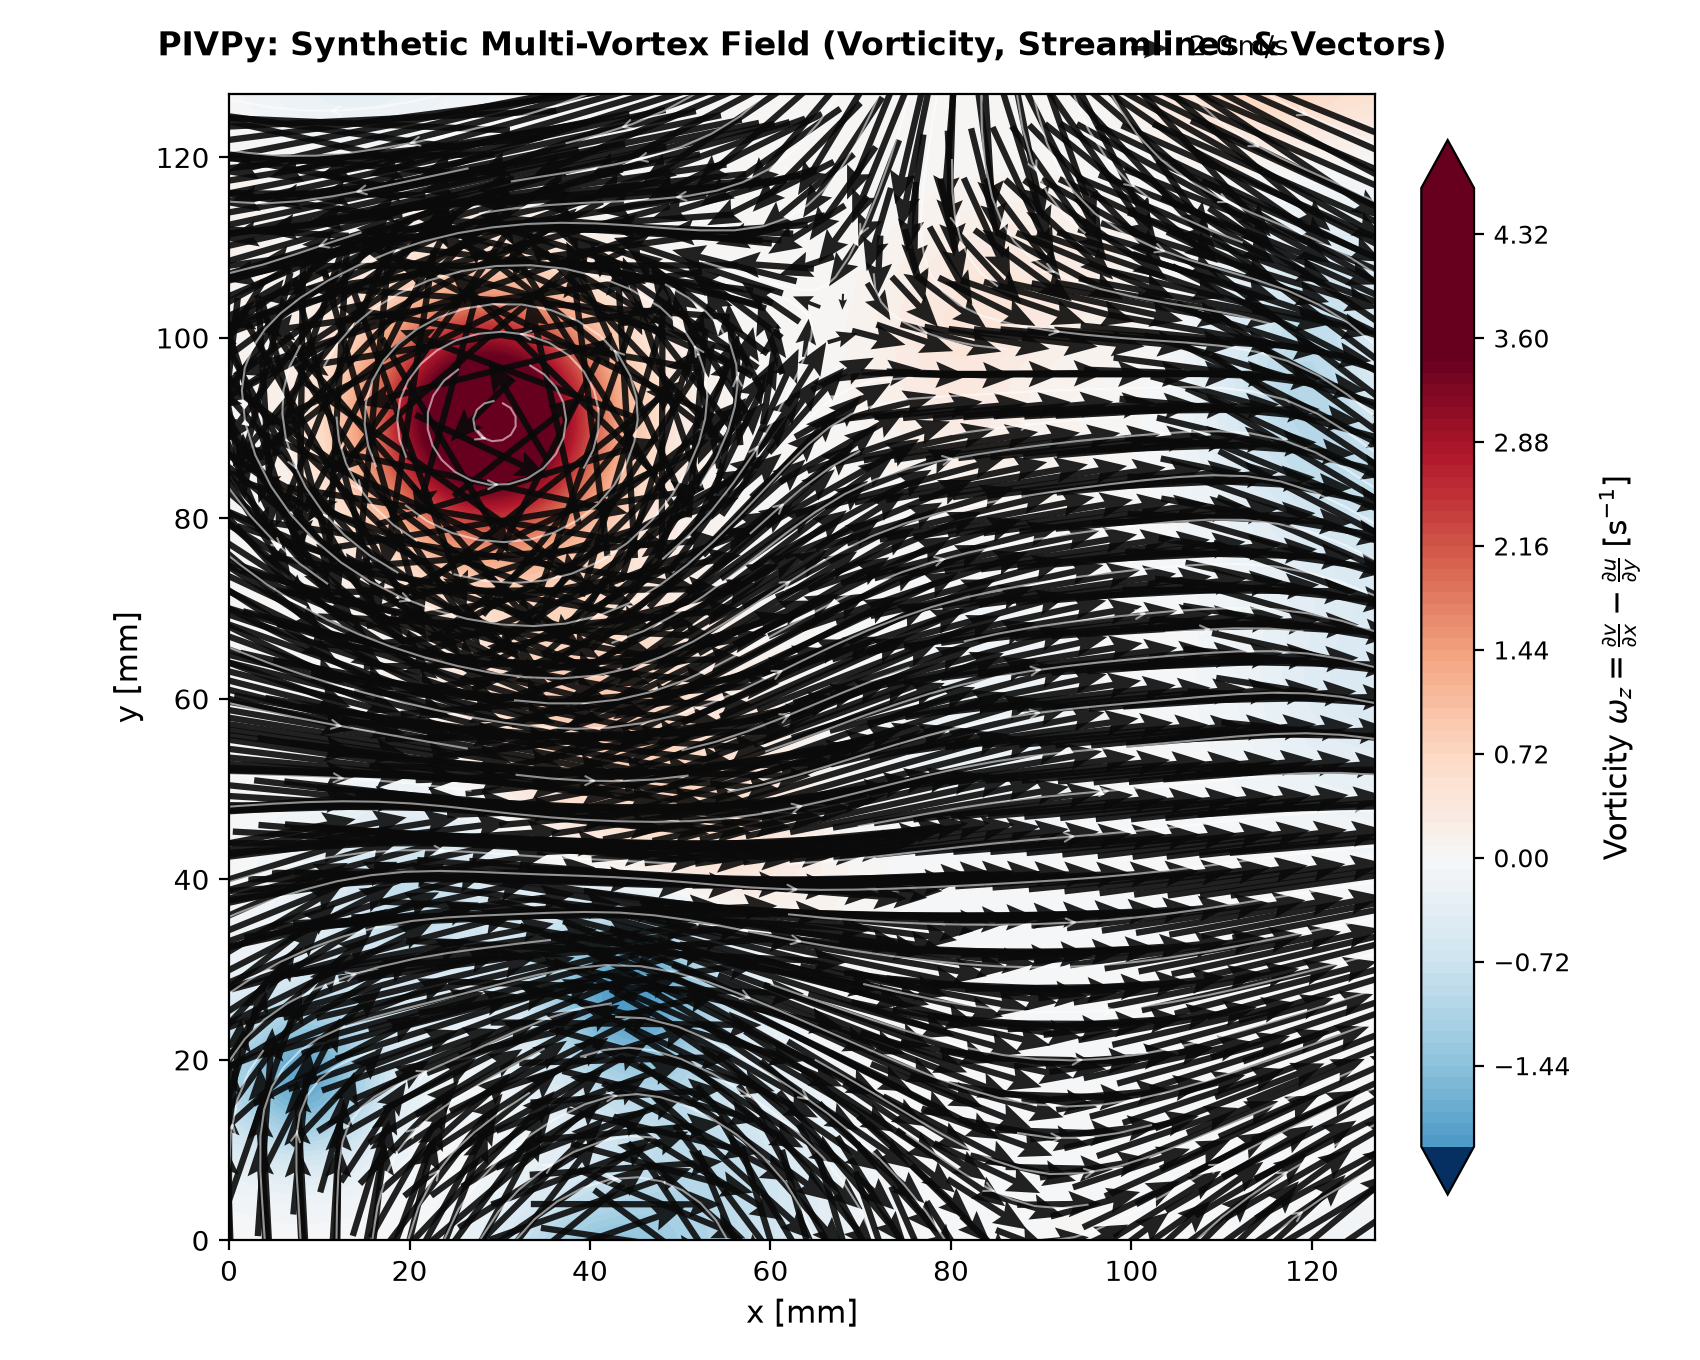
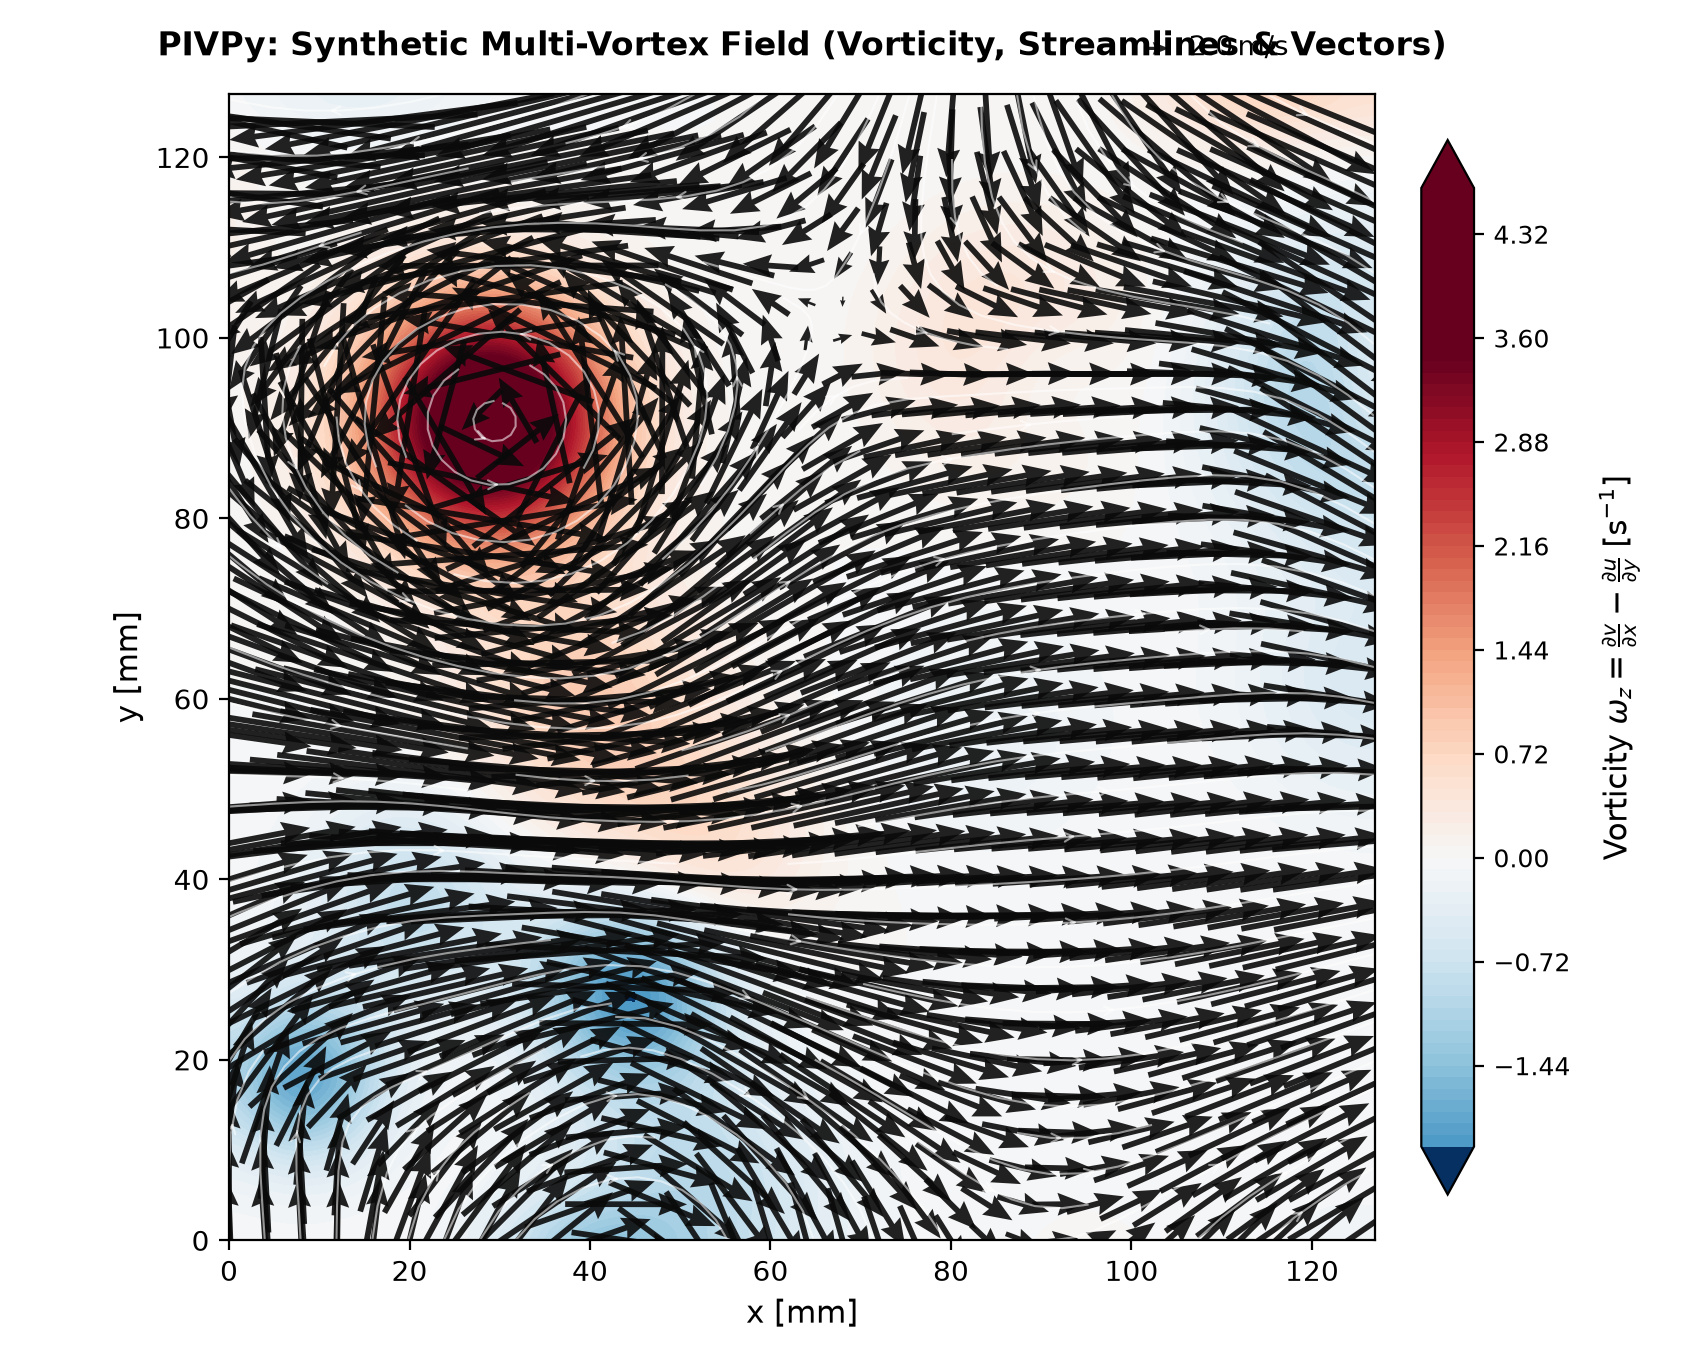
docs: adjust quiver scale to render shorter, cleaner velocity arrows

Changed region(s): [[0.1247, 0.0618, 0.8106, 0.9265]]

diff --git a/README.md b/README.md
@@ -108,16 +108,17 @@ strm.lines.set_alpha(0.55)
 for patch in ax.patches:
     patch.set_alpha(0.55)
 
-# Prominent velocity vector quiver overlay
+# Clean, well-proportioned velocity vector quiver overlay
 skip = 4
 q = ax.quiver(
     X[::skip, ::skip], Y[::skip, ::skip],
     u[::skip, ::skip], v[::skip, ::skip],
-    color="#0a0a0a", angles="xy", scale_units="xy", scale=0.48,
-    width=0.0055, headwidth=4.2, headlength=5.2, headaxislength=4.5,
+    color="#0a0a0a", angles="xy", scale_units="xy", scale=0.75,
+    width=0.005, headwidth=4.0, headlength=5.0, headaxislength=4.5,
     minshaft=1.5, pivot="mid", alpha=0.9,
 )
 ax.quiverkey(q, X=0.82, Y=1.04, U=2.0, label=r"$2.0\,\mathrm{m/s}$", labelpos="E", coordinates="axes", fontproperties={"size": 10, "weight": "bold"})
+
 
 ax.set_title("PIVPy: Synthetic Multi-Vortex Field (Vorticity, Streamlines & Vectors)", fontsize=12, fontweight="bold", pad=14)
 ax.set_xlabel("x [mm]", fontsize=11)
